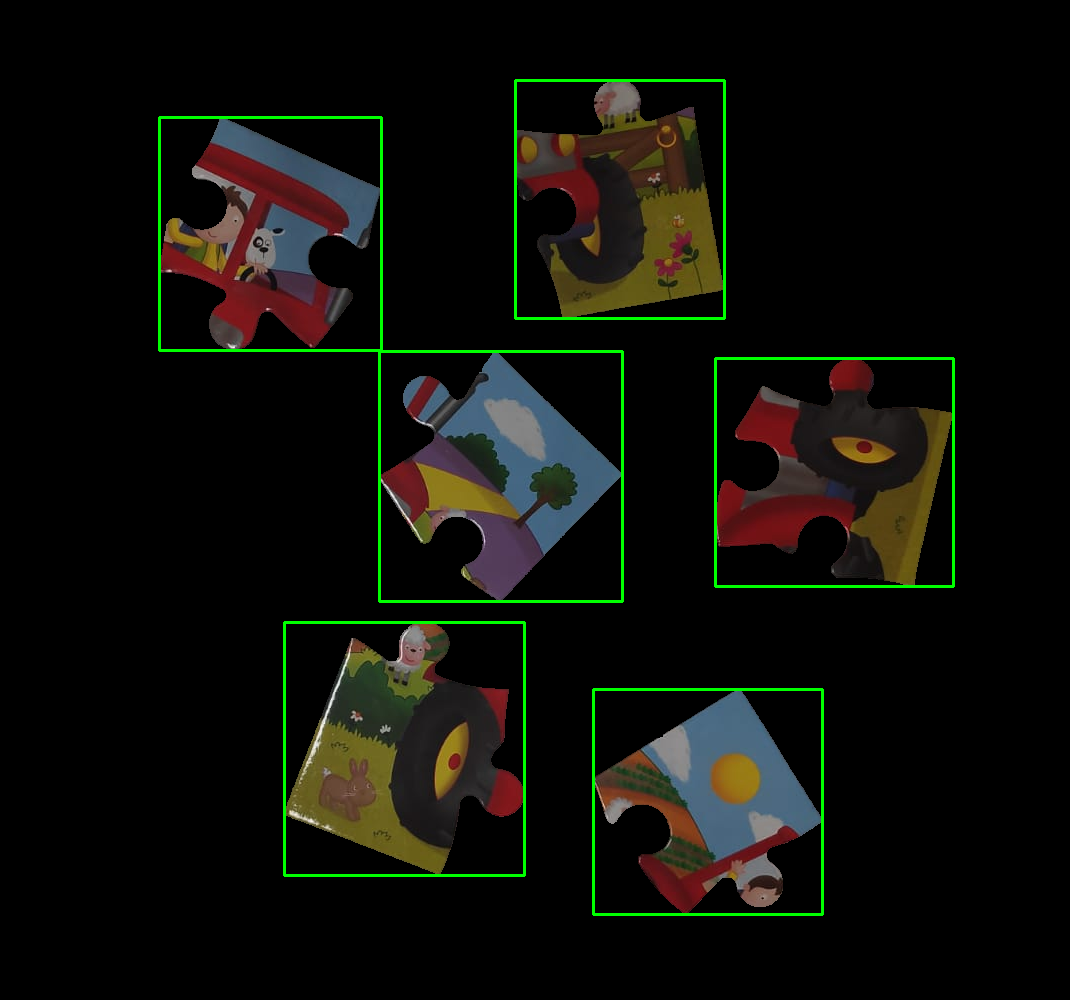
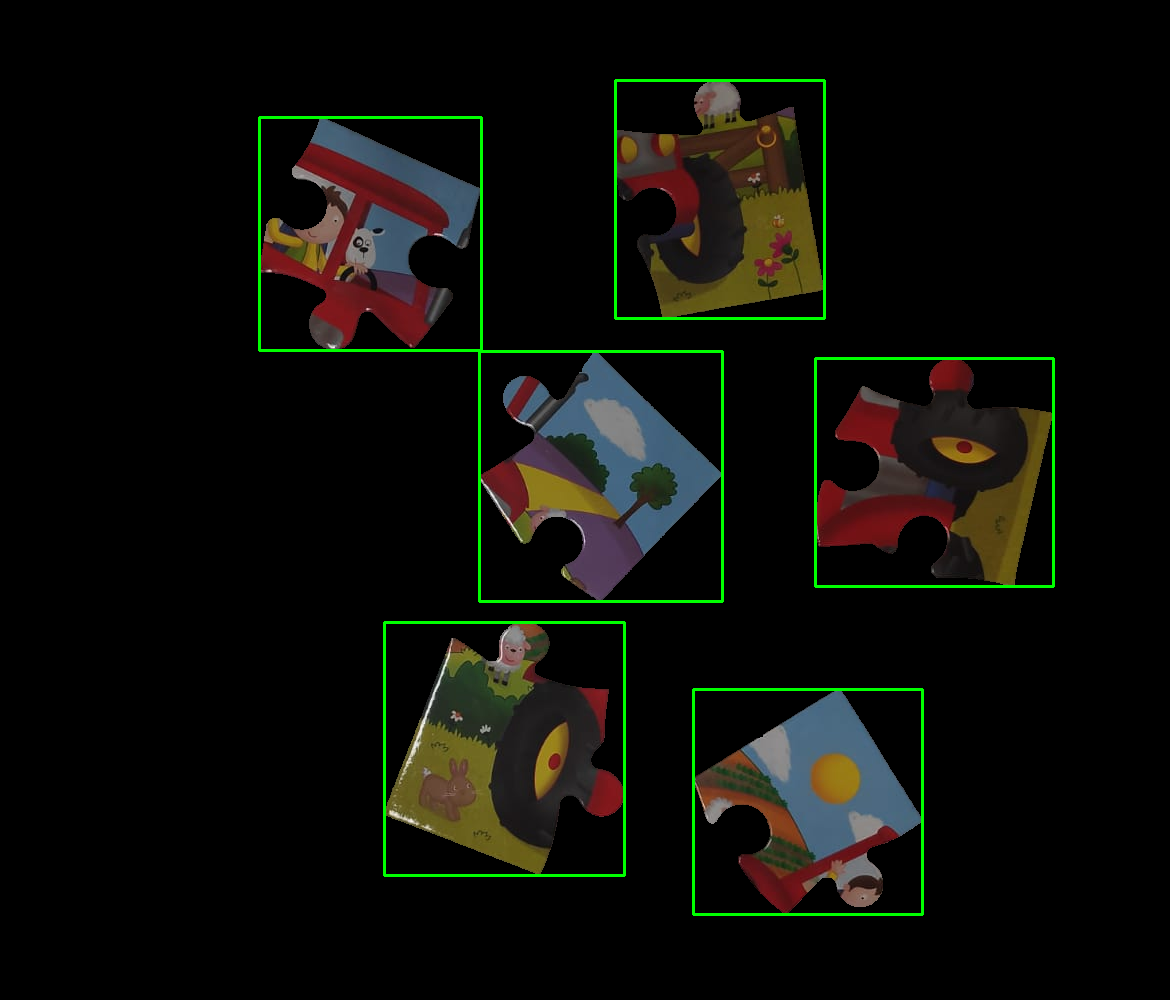
Fucking consistency prosak

diff --git a/main.py b/main.py
@@ -6,6 +6,9 @@ import algorithmics.puzzle as puzzle
 import cv2
 import mechanics.mechanics_api as mechanics_api
 
+
+TEST_MODE = True
+
 # Exciting! actual real main
 # Need to think about shceme - maybe we need thread for greedy in terms of speed
 # If it's slow, then greedy and execution are intertwined
@@ -20,32 +23,31 @@ def get_images(test=True):
     else:
         for i in range(3):
             below = camera.take_picture(still_camera=True)
+        below = cv2.cvtColor(below, cv2.COLOR_BGR2GRAY)
 
         mechanics_api.send_command("L", 1) #1 for turn off
         time.sleep(0.5)
         for i in range(3):
             above = camera.take_picture(still_camera=True)
 
+    above = util.relevant_section(above, test)
+    below = util.relevant_section(below, test)
     return above, below
 
 
 def main():
     # Parse pieces
-    above, below = get_images(test=False)
-    above = util.relevant_section(above)
-    below = util.relevant_section(below)
-    showImage("above",above)
-    showImage("below",below)
+    above, below = get_images(test=TEST_MODE)
+    showImage("above", above)
+    showImage("below", below)
     cv2.waitKey(0)
 
-    pieces = im_proc.get_pieces(above, below)
-    print("pieces")
+    pieces = im_proc.get_pieces(above, below, TEST_MODE)
+    puzzle_obj = puzzle.Puzzle(pieces)
 
-    #puzzle_obj = puzzle.Puzzle(pieces)
-
-    # # Build puzzle
-    # puzzle_obj.greedy()
-    # puzzle_obj.display()
+    # Build puzzle
+    puzzle_obj.greedy()
+    puzzle_obj.display()
 
     # Execute puzzle
 

diff --git a/image_processing/util.py b/image_processing/util.py
@@ -29,16 +29,20 @@ def dist_from_line(next_corner, point):
     return neumon / denom
 
 
-def relevant_section(img):
+def relevant_section(img, test=True):
     # for 2 pieces
     # tmp = img[-900:-200,-650:-200]
 
     # for 34 pieces
     # tmp = img[70:-100,300:-230]
 
-    #for 4 pieces
-    # tmp = img[100:-100,100:-230]
-    tmp = img[30:-300,780:-1070]
+    if test:
+        # for 4 pieces
+        tmp = img[100:-100, 200:-230]
+    else:
+        # for prosak pieces
+        tmp = img[30:-300, 780:-1070]
+
     cv2.imshow("tmp",cv2.resize(tmp, None, fx=0.2, fy=0.2))
     # cv2.waitKey(0)
     return tmp
@@ -52,8 +56,5 @@ def output(name, img):
 def get_test_images():
     above = cv2.imread(ABOVE, 1)
     below = cv2.imread(BELOW, 0)
-
-    above = relevant_section(above)
-    below = relevant_section(below)
 
     return above, below

diff --git a/mechanics/mechanics_api.py b/mechanics/mechanics_api.py
@@ -19,11 +19,13 @@ def send_command(motor, mode, speed=1000):
     ard.write(cmnd.encode())
     sleep(0.5)
 
-def pixels2steps(motor,pixels):
-  if(motor=="X"):
-    return int(1000/916.081*pixels)
-  if(motor=="Y"):
-    return int(1000/866*pixels)
+
+def pixels2steps(motor, pixels):
+    if (motor == "X"):
+        return int(1000 / 916.081 * pixels)
+    if motor == "Y":
+        return int(1000 / 866 * pixels)
+
 
 def get_log():
     data = ard.read_all(ard.inWaiting())

diff --git a/image_processing/image_proc.py b/image_processing/image_proc.py
@@ -7,14 +7,11 @@ import image_processing.piece as piece
 import image_processing.parse_pieces as parse_pieces
 
 
-def get_pieces(above, below):
-    below = cv2.cvtColor(below, cv2.COLOR_BGR2GRAY)
+def get_pieces(above, below, test):
     util.output("below", below)
     cv2.waitKey(0)
 
-    below, binary = parse_pieces.create_mask(below)
-
-
+    below, binary = parse_pieces.create_mask(below, test)
 
     util.output("below", binary*255)
     cv2.waitKey(0)

diff --git a/image_processing/parse_pieces.py b/image_processing/parse_pieces.py
@@ -6,10 +6,14 @@ from image_processing.constants import *
 import image_processing.piece as piece
 
 
-def create_mask(below):
+def create_mask(below, test):
     print(below.shape)
 
-    below[below >= THRESH] = 0
+    if test:
+        below[below >= TEST_THRESH] = 0
+    else:
+        below[below >= REAL_THRESH] = 0
+
     below[below >= 1] = 255
 
     kernel = np.ones((3, 3), np.uint8)

diff --git a/image_processing/constants.py b/image_processing/constants.py
@@ -5,7 +5,8 @@ BELOW = BASE + "below6.jpeg"
 RESULTS_BASE = "./image_processing/results/"
 PIECES_BASE = "./image_processing/pieces/"
 
-THRESH = 220
+REAL_THRESH = 220
+TEST_THRESH = 75
 CNT_THRESH = 50
 
 PIECE_MARGIN = 10
